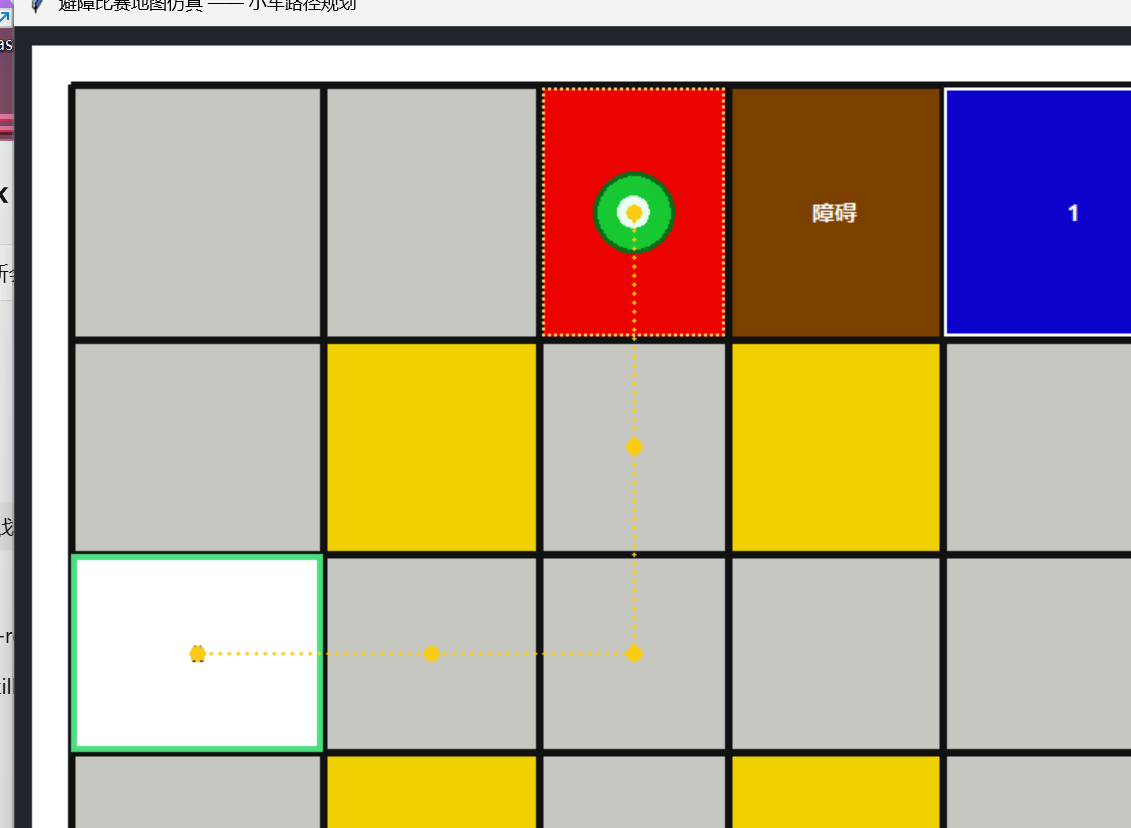
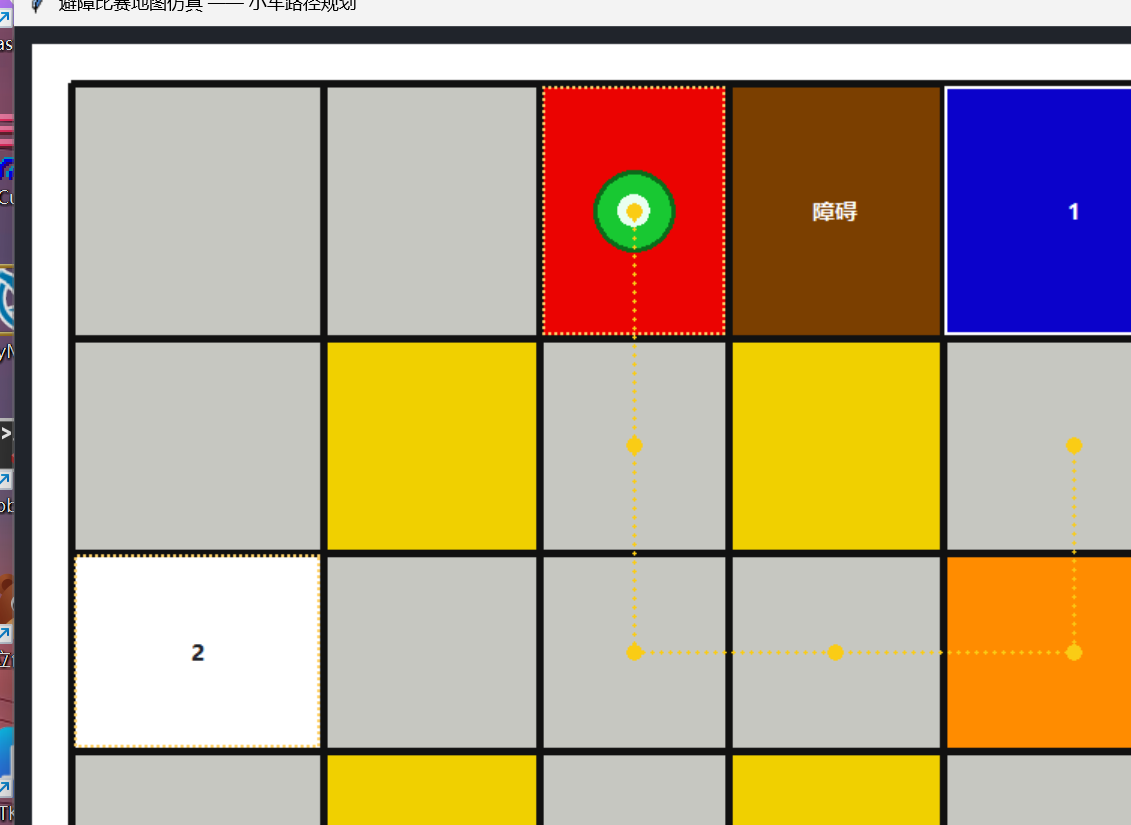
v1.0.4

diff --git a/map_sim.py b/map_sim.py
@@ -50,6 +50,7 @@ C_GOAL_WHITE = "#ffffff"  # 白色目标区域
 C_WALL = "#f0d000"        # 禁止通行（黄）
 C_START = "#0b02cb"       # 出发点（蓝）
 C_GOAL_RED = "#eb0301"    # 红色目标
+C_ORANGE = "#ff8c00"      # 橙色格子
 C_OBSTACLE = "#7b3f00"    # 障碍物（棕色）
 C_BAD = "#ff2d2d"         # 放障碍物后目标不可达的告警色
 C_GRID = "#111111"        # 网格黑线
@@ -63,6 +64,11 @@ GOAL_INFO = {
     (1, 3): ("红色区域", C_GOAL_RED, "红"),
     (5, 3): ("白色区域1", C_GOAL_WHITE, "1"),    # 第 5 行第 3 列
     (3, 1): ("白色区域2", C_GOAL_WHITE, "2"),    # 第 3 行第 1 列
+}
+
+# 单独指定底色的格子（保持普通可通行格的身份，不改变通行规则）
+CELL_COLORS = {
+    (3, 5): C_ORANGE,        # 第 3 行第 5 列：橙色
 }
 
 # 当前被选作出发点的格子。比赛规则：两个蓝色格子随机二选一作为出发点，
@@ -149,6 +155,10 @@ def build_grid():
     for key, (name, color, mark) in GOAL_INFO.items():
         g = grid[key]
         g.kind, g.color, g.goal_name, g.mark = GOAL, color, name, mark
+
+    # 单独改底色的格子（仍然是普通可通行格子，只是颜色不同）
+    for key, color in CELL_COLORS.items():
+        grid[key].color = color
 
     return grid
 

diff --git a/tools/verify_sim.py b/tools/verify_sim.py
@@ -9,6 +9,7 @@ import map_sim as M
 
 CH = {M.FLOOR: ".", M.WALL: "Y", M.START: "B", M.GOAL: "G"}
 M.clear_obstacles()          # 本脚本先在“无障碍物”状态下核对地图与最短路
+ORANGE = (3, 5)
 
 print("=== 地图（. 可通行  Y 禁止通行  B 出发点  G 目标地点）===")
 print("      " + "  ".join("c%d" % c for c in range(1, 6)))
@@ -19,6 +20,8 @@ for r in range(1, 6):
         tag = CH[cell.kind]
         if cell.goal_name:
             tag = {"白色区域1": "1", "白色区域2": "2", "红色区域": "R"}[cell.goal_name]
+        elif (r, c) == ORANGE:
+            tag = "橙"
         line.append(tag)
     print("  r%d  " % r + "  ".join(line))
 
@@ -36,6 +39,10 @@ assert M.GRID[(5, 3)].color == M.C_GOAL_WHITE == "#ffffff"
 assert M.GRID[(3, 1)].color == "#ffffff"
 assert M.GRID[(3, 3)].color == M.C_FLOOR == "#c6c7c1"
 assert M.GRID[(1, 1)].color == "#c6c7c1"
+# 第 3 行第 5 列是橙色格子，且仍然是普通可通行格（不是目标、不是禁行区）
+assert M.GRID[(3, 5)].color == M.C_ORANGE == "#ff8c00"
+assert M.GRID[(3, 5)].kind == M.FLOOR and M.GRID[(3, 5)].passable
+assert M.GRID[(3, 5)].goal_name is None
 for k in [(2, 2), (2, 4), (4, 2), (4, 4)]:
     assert M.GRID[k].kind == M.WALL and not M.GRID[k].passable
 

diff --git a/tools/verify_live.py b/tools/verify_live.py
@@ -101,7 +101,7 @@ def sample_at(x, y):
 
 print("\n红/蓝格位置比对：")
 for key, want_hex in (((1, 3), "#eb0301"), ((1, 5), "#0b02cb"), ((3, 1), "#ffffff"),
-                      ((3, 3), "#c6c7c1"), ((1, 4), "#7b3f00")):
+                      ((3, 3), "#c6c7c1"), ((1, 4), "#7b3f00"), ((3, 5), "#ff8c00")):
     cell = M.GRID[key]
     cxp, cyp = xy(cell.cx, cell.cy)
     half = (cell.x1 - cell.x0) * 0.22 * k

diff --git a/tools/check_draw.py b/tools/check_draw.py
@@ -54,6 +54,7 @@ EXPECT = {
     (5, 3): "#ffffff",   # 白色区域1（白色目标区）
     (3, 1): "#ffffff",   # 白色区域2（白色目标区）
     (3, 3): "#c6c7c1",   # 普通可通行（灰色）
+    (3, 5): "#ff8c00",   # 橙色格子
 }
 for key, want in EXPECT.items():
     got = color_at_cell(key)

diff --git a/README.md b/README.md
@@ -2,6 +2,7 @@
 v1.0.0:初始版本
 v1.0.2：基本能用版本（地图正确）
 v1.0.3：添加了避障算法
+v1.0.4：第 3 行第 5 列格子改为橙色
 
 # 避障比赛地图仿真环境
 
@@ -37,7 +38,7 @@ python map_sim.py
         c1    c2    c3    c4    c5
   r1    .     .    红     .    蓝1      ← 蓝色 = 出发点1（比赛随机二选一）
   r2    .    黄     .    黄     .       ← 黄色 = 禁止通行区域
-  r3    白2   .     .     .     .
+  r3    白2   .     .     .     橙
   r4    .    黄     .    黄     .
   r5    .     .    白1    .    蓝2      ← 白色区域1 / 白色区域2 / 红色区域 = 目标地点
 ```
@@ -49,12 +50,14 @@ python map_sim.py
 | 红色区域 | r1c3 | 目标地点 |
 | 白色区域1 | r5c3 | 目标地点 |
 | 白色区域2 | r3c1 | 目标地点 |
+| 橙色格子 | r3c5 | 普通可通行格子，仅底色不同 |
 
 坐标写法 `r行c列`，行从上往下、列从左往右，均为 1..5。
-白色区域1 在**第 5 行第 3 列**，白色区域2 在**第 3 行第 1 列**。
+白色区域1 在**第 5 行第 3 列**，白色区域2 在**第 3 行第 1 列**，橙色格子在**第 3 行第 5 列**。
 
 界面配色：可通行区域为灰色背景，两个白色目标区域为**纯白**，禁止通行黄色，出发点蓝色，
-障碍物棕色，红色目标红色，小车为绿色圆，规划路径为深绿色实线，鼠标悬停时用黄色虚线预览最短路径。
+第 3 行第 5 列为**橙色**，障碍物棕色，红色目标红色，小车为绿色圆，规划路径为深绿色实线，
+鼠标悬停时用黄色虚线预览最短路径。
 
 ## 障碍物规则
 
